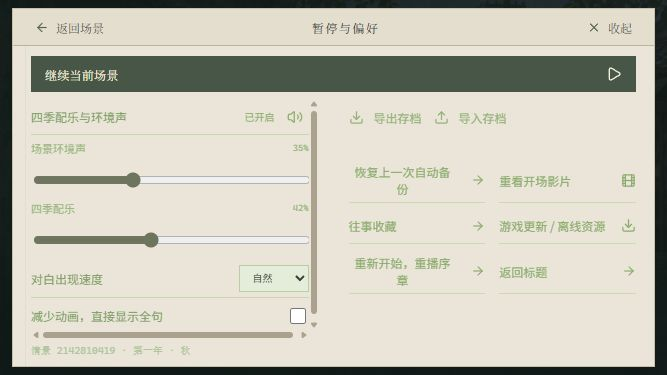
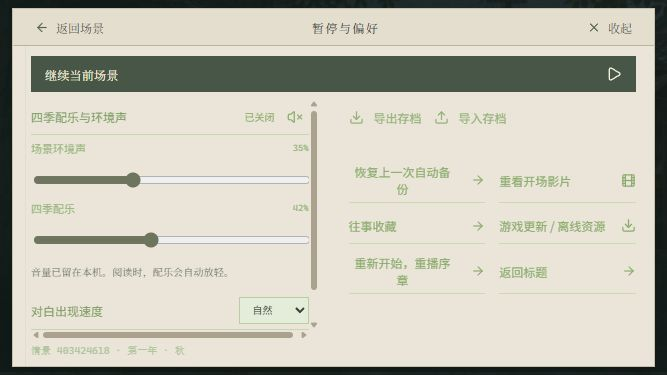
Remember sound levels and smooth reading and pause transitions

diff --git a/components/game/CinematicGame.tsx b/components/game/CinematicGame.tsx
@@ -10,6 +10,7 @@ import {evidenceFor} from '@/lib/game/research';
 import { researchCompany, choose, CHAPTER_QUARTERS, pendingChapter, storyKind, createGame, debtTotal, endQuarter, ending, money, quarterName, SAVE_KEY, selectSide, validateSave, type Game, type StoryKind, type StoryEvent } from '@/lib/game/engine';
 import { CHAPTER_EVENTS, mainEvent, materialize, QUOTES, SIDE_EVENTS } from '@/lib/game/stories';
 import { RoomAudio } from '@/lib/game/audio';
+import {audioPreferenceKey,defaultAudioPreferences,loadAudioPreferences,storeAudioPreferences,readingAudioPanel} from '@/lib/game/audio-settings';
 import { freshPresentation, restartPresentation, PRESENTATION_KEY, validPresentation, type Presentation, type ReadingProgress } from '@/lib/game/presentation';
 import { initialLesson, reconcileLesson, lessonDestination, LESSON_COPY, TRADE_LESSONS, type Lesson } from '@/lib/game/tutorial';
 import { encounterPeople, recoverPeople } from '@/lib/game/people';
@@ -51,15 +52,19 @@ export default function CinematicGame({testMode=false}:{testMode?:boolean}){
  const [shelfTab,setShelfTab]=useState<ShelfTab>('overview'),[resourcesAllowed,setResourcesAllowed]=useState(false);
  const [portrait,setPortrait]=useState(false),[filmAudioFocus,setFilmAudioFocus]=useState(false);
  useEffect(()=>{const media=window.matchMedia('(max-width: 900px) and (orientation: portrait)');const sync=()=>setPortrait(media.matches);sync();media.addEventListener('change',sync);return()=>media.removeEventListener('change',sync);},[]);
- useEffect(()=>{if(portrait){void audio.current?.pause();setSound(false);}},[portrait]);
+ useEffect(()=>{if(portrait)stopSound();},[portrait]);
  const saveKey=testMode?'aequilibrium.playtest.save.v2':SAVE_KEY;
  const presentationKey=testMode?'aequilibrium.playtest.presentation.v2':PRESENTATION_KEY;
  const collectionKey=testMode?'aequilibrium.playtest.collection.v1':COLLECTION_KEY;
  const [collection,setCollection]=useState<Collection>(freshCollection),[galleryReturn,setGalleryReturn]=useState<Screen>('title');
  const [game,setGame]=useState<Game|null>(null),[ui,setUI]=useState<Presentation|null>(null),[screen,setScreen]=useState<Screen>('title'),[panel,setPanel]=useState<Panel>(null),[session,setSession]=useState<Session|null>(null),[marketMode,setMarketMode]=useState<'buy'|'sell'>('buy'),[bankMessage,setBankMessage]=useState(''),[tradeReturn,setTradeReturn]=useState<'market'|'ledger'>('market'),[asset,setAsset]=useState('harbor'),[sound,setSound]=useState(false),[rain,setRain]=useState(35),[music,setMusic]=useState(42),[toast,setToast]=useState(''),[settled,setSettled]=useState(0),[saveError,setSaveError]=useState(false);
  useEffect(()=>{audio.current?.duck(filmAudioFocus?0:1);},[filmAudioFocus]);
- const audio=useRef<RoomAudio|null>(null),ready=useRef(false),dialog=useRef<HTMLDivElement>(null),input=useRef<HTMLInputElement>(null),timer=useRef<ReturnType<typeof setTimeout>|null>(null);
+ const audio=useRef<RoomAudio|null>(null),soundRequested=useRef(false),soundRequestId=useRef(0),ready=useRef(false),dialog=useRef<HTMLDivElement>(null),input=useRef<HTMLInputElement>(null),timer=useRef<ReturnType<typeof setTimeout>|null>(null);
  const cueSoundscape=useCallback((scene:AudioScene)=>audio.current?.scene(scene),[]);
+ const audioKey=audioPreferenceKey(testMode),[loadedAudioKey,setLoadedAudioKey]=useState<string|null>(null),[audioSaved,setAudioSaved]=useState<boolean|null>(null);
+ useEffect(()=>{let prefs=defaultAudioPreferences();try{prefs=loadAudioPreferences(localStorage,audioKey);}catch{}setRain(prefs.environment);setMusic(prefs.music);setAudioSaved(null);setLoadedAudioKey(audioKey);},[audioKey]);
+ useEffect(()=>{if(loadedAudioKey!==audioKey)return;let saved=false;try{saved=storeAudioPreferences(localStorage,audioKey,{version:1,environment:rain,music});}catch{}setAudioSaved(saved);},[audioKey,loadedAudioKey,rain,music]);
+ useEffect(()=>{audio.current?.reading(readingAudioPanel(panel));},[panel]);
  useEffect(()=>{if(!game||!ui)return;const url=new URL(window.location.href);if(url.searchParams.get('updated')&&url.searchParams.get('updated')===currentBuildId()){notify('新版已启用，原来的进度和往事都已保留。');url.searchParams.delete('updated');history.replaceState(null,'',url.pathname+url.search+url.hash);}},[!!game,!!ui]);
  function openGameUpdate(apply:boolean){if(!game||!ui)return;try{localStorage.setItem(saveKey,JSON.stringify(game));localStorage.setItem(presentationKey,JSON.stringify(ui));localStorage.setItem(collectionKey,JSON.stringify(collection));backupUpdateSaves();window.location.assign(updatePageURL(testMode,apply));}catch{notify('更新前的备份未能保存，请先导出存档，再重试。');}}
  function notify(text:string){setToast(text);if(timer.current)clearTimeout(timer.current);timer.current=setTimeout(()=>setToast(''),5000);}
@@ -71,17 +76,23 @@ export default function CinematicGame({testMode=false}:{testMode?:boolean}){
   try{const text=localStorage.getItem(presentationKey);if(text){const p=JSON.parse(text);if(validPresentation(p,game))presentation=p;}}catch{}
   let collection=freshCollection();try{const raw=localStorage.getItem(collectionKey);if(raw)collection=readCollection(JSON.parse(raw));}catch{}
   setCollection(recoverCollection(collection,game,presentation.reading));setGame(game);setUI({...presentation,lesson:reconcileLesson(game,presentation.lesson,presentation.tutorial,presentation.reading),people:recoverPeople(game,presentation.people)});ready.current=true;audio.current=new RoomAudio();
-  return()=>{void audio.current?.close();if(timer.current)clearTimeout(timer.current);};
+  return()=>{soundRequested.current=false;++soundRequestId.current;void audio.current?.close();if(timer.current)clearTimeout(timer.current);};
  },[]);
  useEffect(()=>{if(!game||!ui||!ready.current)return;setCollection(previous=>recoverCollection(previous,game,ui.reading));},[game,ui?.reading?.eventId,ui?.reading?.phase]);
  useEffect(()=>{if(!game||!ui||!ready.current)return;try{localStorage.setItem(saveKey,JSON.stringify(game));localStorage.setItem(presentationKey,JSON.stringify(ui));localStorage.setItem(collectionKey,JSON.stringify(collection));setSaveError(false);}catch{setSaveError(true);}},[game,ui,collection]);
- useEffect(()=>{const visibility=()=>{if(document.hidden){void audio.current?.pause();setSound(false);}};document.addEventListener('visibilitychange',visibility);return()=>document.removeEventListener('visibilitychange',visibility);},[]);
+ useEffect(()=>{const visibility=()=>{if(document.hidden)stopSound();};document.addEventListener('visibilitychange',visibility);return()=>document.removeEventListener('visibilitychange',visibility);},[]);
  useEffect(()=>{
   if(!panel)return;const previous=document.activeElement as HTMLElement;const overflow=document.body.style.overflow;document.body.style.overflow='hidden';const t=setTimeout(()=>dialog.current?.querySelector<HTMLButtonElement>('button')?.focus(),10);
   const keyboard=(e:KeyboardEvent)=>{if(e.key==='Escape'){e.stopPropagation();closePanel();}if(e.key==='Tab'){const all=dialog.current?.querySelectorAll<HTMLElement>('button:not(:disabled),input:not(:disabled),select,a[href]');if(!all?.length)return;const first=all[0],last=all[all.length-1];if(e.shiftKey&&document.activeElement===first){e.preventDefault();last.focus();}else if(!e.shiftKey&&document.activeElement===last){e.preventDefault();first.focus();}}};
   document.addEventListener('keydown',keyboard);return()=>{clearTimeout(t);document.removeEventListener('keydown',keyboard);document.body.style.overflow=overflow;previous?.focus();};
  },[panel]);
- async function toggleSound(){try{if(sound){await audio.current?.pause();setSound(false);}else{await audio.current?.start();audio.current?.levels(rain/100,music/100);setSound(true);}}catch{notify('可以继续安静游玩。声音暂时未能开启。');}}
+ function stopSound(){soundRequested.current=false;++soundRequestId.current;setSound(false);void audio.current?.pause();}
+ async function toggleSound(){
+  const enable=!soundRequested.current,id=++soundRequestId.current;soundRequested.current=enable;
+  if(!enable)setSound(false);
+  try{if(enable){audio.current?.levels(rain/100,music/100);await audio.current?.start();if(id===soundRequestId.current&&soundRequested.current)setSound(true);}else await audio.current?.pause();}
+  catch{if(id===soundRequestId.current){soundRequested.current=false;setSound(false);notify('可以继续安静游玩。声音暂时未能开启。');}}
+ }
  useEffect(()=>{if(!game?.mainSnapshot||screen==='gallery')return;const timer=setTimeout(()=>{warmScene(hubScene(game));const script=getScript(game.mainSnapshot!);warmScene(script.scene,script.cast);},700);return()=>clearTimeout(timer);},[game?.seed,game?.quarter,screen]);
  function updateUI(change:Partial<Presentation>){setUI(s=>s?{...s,...change}:s);}
  function commit(fn:(s:Game)=>Game){if(!game)return false;try{setGame(prepare(fn(game)));audio.current?.page();return true;}catch(e){notify((e as Error).message);return false;}}
@@ -162,7 +173,7 @@ export default function CinematicGame({testMode=false}:{testMode?:boolean}){
    {panel==='library'&&<Suspense fallback={<p>正在打开书柜…</p>}><Bookshelf game={game} presentation={ui} collection={collection} tab={shelfTab} onTab={setShelfTab} onPage={readingPage=>updateUI({readingPage})} sound={sound} onSound={toggleSound} onAudioFocus={setFilmAudioFocus}/></Suspense>}
    {panel==='offline'&&<Suspense fallback={<p>正在查看本机资源…</p>}><OfflinePack onContinue={continueWithResources} onUpdate={openGameUpdate} update={availableUpdate}/></Suspense>}
 
-   {panel==='pause'&&<div className="pause-sheet"><p className="paper-kicker">给自己留一会儿</p><h2>暂停在这里</h2><button className="ink-button full" onClick={closePanel}>继续当前场景<Play size={16}/></button><div className="pause-columns"><section className="pause-preferences"><div className="preference-row"><span>四季配乐与环境声</span><button onClick={toggleSound} aria-pressed={sound}>{sound?'已开启':'已关闭'}{sound?<Volume2 size={16}/>:<VolumeX size={16}/>}</button></div><label className="range-pref"><span>场景环境声<b>{rain}%</b></span><input type="range" min="0" max="100" value={rain} onChange={e=>{const n=Number(e.target.value);setRain(n);audio.current?.levels(n/100,music/100);}}/></label><label className="range-pref"><span>四季配乐<b>{music}%</b></span><input type="range" min="0" max="100" value={music} onChange={e=>{const n=Number(e.target.value);setMusic(n);audio.current?.levels(rain/100,n/100);}}/></label><label className="preference-row"><span>对白出现速度</span><select aria-label="对白出现速度" value={ui.speed} onChange={e=>updateUI({speed:Number(e.target.value)})}><option value={50}>慢一点</option><option value={30}>自然</option><option value={15}>快一点</option></select></label><label className="preference-row"><span>减少动画，直接显示全句</span><input type="checkbox" checked={ui.reducedMotion} onChange={e=>updateUI({reducedMotion:e.target.checked})}/></label></section><section className="pause-utilities"><div className="pause-divider"/><div className="pause-save-actions"><button onClick={exportSave}><Download size={15}/>导出存档</button><button onClick={()=>input.current?.click()}><Upload size={15}/>导入存档</button></div><button className="pause-link" onClick={restoreBackup}>恢复上一次自动备份<ArrowRight size={14}/></button><button className="pause-link" onClick={()=>{setPanel(null);setScreen('film');}}>重看开场影片<Film size={15}/></button><button className="pause-link" onClick={()=>openShelf('memories')}>往事收藏<span>已收录 {collectionStats(collection).stories} 段故事 · {collectionStats(collection).branches} 段回声</span><ArrowRight size={14}/></button><button className="pause-link" onClick={()=>availableUpdate?openGameUpdate(true):setPanel('offline')}>{availableUpdate?'有新版 · 保存进度后更新':'游戏更新 / 离线资源'}<Download size={15}/></button><button className="pause-link" onClick={()=>setPanel('reset')}>重新开始，重播序章<ArrowRight size={14}/></button><button className="pause-link" onClick={returnToTitle}>返回标题<ArrowRight size={14}/></button></section></div><p className="save-scenario mono">情景 {game.seed} · {quarterName(game.quarter)}</p></div>}
+   {panel==='pause'&&<div className="pause-sheet"><p className="paper-kicker">给自己留一会儿</p><h2>暂停在这里</h2><button className="ink-button full" onClick={closePanel}>继续当前场景<Play size={16}/></button><div className="pause-columns"><section className="pause-preferences"><div className="preference-row"><span>四季配乐与环境声</span><button onClick={toggleSound} aria-pressed={sound}>{sound?'已开启':'已关闭'}{sound?<Volume2 size={16}/>:<VolumeX size={16}/>}</button></div><label className="range-pref"><span>场景环境声<b>{rain}%</b></span><input type="range" min="0" max="100" value={rain} onChange={e=>{const n=Number(e.target.value);setRain(n);audio.current?.levels(n/100,music/100);}}/></label><label className="range-pref"><span>四季配乐<b>{music}%</b></span><input type="range" min="0" max="100" value={music} onChange={e=>{const n=Number(e.target.value);setMusic(n);audio.current?.levels(rain/100,n/100);}}/></label>{audioSaved!==null&&<p className="audio-preference-note">{audioSaved?'音量已留在本机。阅读时，配乐会自动放轻。':'音量本次有效，浏览器暂未保存设置。'}</p>}<label className="preference-row"><span>对白出现速度</span><select aria-label="对白出现速度" value={ui.speed} onChange={e=>updateUI({speed:Number(e.target.value)})}><option value={50}>慢一点</option><option value={30}>自然</option><option value={15}>快一点</option></select></label><label className="preference-row"><span>减少动画，直接显示全句</span><input type="checkbox" checked={ui.reducedMotion} onChange={e=>updateUI({reducedMotion:e.target.checked})}/></label></section><section className="pause-utilities"><div className="pause-divider"/><div className="pause-save-actions"><button onClick={exportSave}><Download size={15}/>导出存档</button><button onClick={()=>input.current?.click()}><Upload size={15}/>导入存档</button></div><button className="pause-link" onClick={restoreBackup}>恢复上一次自动备份<ArrowRight size={14}/></button><button className="pause-link" onClick={()=>{setPanel(null);setScreen('film');}}>重看开场影片<Film size={15}/></button><button className="pause-link" onClick={()=>openShelf('memories')}>往事收藏<span>已收录 {collectionStats(collection).stories} 段故事 · {collectionStats(collection).branches} 段回声</span><ArrowRight size={14}/></button><button className="pause-link" onClick={()=>availableUpdate?openGameUpdate(true):setPanel('offline')}>{availableUpdate?'有新版 · 保存进度后更新':'游戏更新 / 离线资源'}<Download size={15}/></button><button className="pause-link" onClick={()=>setPanel('reset')}>重新开始，重播序章<ArrowRight size={14}/></button><button className="pause-link" onClick={returnToTitle}>返回标题<ArrowRight size={14}/></button></section></div><p className="save-scenario mono">情景 {game.seed} · {quarterName(game.quarter)}</p></div>}
    {panel==='borrow'&&<><p className="paper-kicker">按日期偿还的合同</p><h2 className="paper-title">四季定额借款</h2><div className="loan-terms"><div><span>到账本金</span><strong className="mono">¥20,000</strong></div><div><span>每季利率</span><strong className="mono">2%</strong></div><div><span>计息次数</span><strong>四次，共 ¥1,600</strong></div><div><span>还本日期</span><strong>第 {game.quarter+3} 季末</strong></div></div><p className="paper-intro">本季开始计息。提前还本可减少后续利息。到期现金不足时，会按折价与手续费变现持仓，未还部分继续列为欠款。</p><button className="ink-button full" disabled={game.finished||game.quarter>8||game.debt.length>=2} onClick={()=>{if(commit(s=>borrowAt(screen as Place,s))){setPanel(null);setBankMessage('姚宁递回合同：“款已到账，还本日期也写好了。需要时，可以再来柜台核对。”');}}}>签下这笔借款<ArrowRight size={17}/></button><button className="paper-back-link" onClick={()=>setPanel(null)}><ArrowLeft size={14}/>回到银行柜台</button></>}
    {panel==='end'&&<><p className="paper-kicker">{quarterName(game.quarter)}</p><h2 className="paper-title">让这一季过去</h2><p className="paper-intro">市场、工资、日常收支与书店经营会在接下来结算。已经答应的事，也会按日期到来。</p>{side&&game.sideChoice===null&&<div className="unread-end"><Mail size={17}/><span>「{side.title}」还未作答。可以先回去看看，也可以结束这一季。</span></div>}{game.promises.filter(p=>p.status==='pending'&&p.kind==='payment'&&p.due===game.quarter).map(p=><div className="end-due" key={p.id}><span>{p.label}</span><b className="mono">¥{money(p.amount)}</b></div>)}<button className="ink-button full" onClick={()=>chapterDue&&chapter?openStory(chapter,'chapter'):advance()}>{chapterDue?'先读完本季主线续章':`结束第 ${game.quarter} 季`}<ArrowRight size={17}/></button></>}
    {panel==='settlement'&&<><p className="paper-kicker">{quarterName(settled)} · 已归档</p><h2 className="paper-title">日历又薄了三张。</h2><p className="settlement-scene-line">{game.quarters.at(-1)?.text}</p><div className="quarter-ledger"><div><span>手头现金</span><b className="mono">¥{money(game.cash)}</b></div><div><span>这一季的答复</span><span>已经留下回声</span></div></div>{game.notices.slice(1).map((n,i)=><p className="quarter-notice" key={i}>{n}</p>)}{settled===1&&(()=>{const r=firstPurchaseReview(game,settled);return r&&<section className="first-investment-review"><p className="paper-kicker">第一笔买入 · 季末对照</p><h3>{r.name} 后来怎样了？</h3><dl><div><dt>当时买入总支出</dt><dd>¥{money(r.cost)}</dd></div><div><dt>按原份额计算的本季市值</dt><dd>¥{money(r.market)}</dd></div><div><dt>假设此刻卖出，扣费后收回</dt><dd>¥{money(r.netSale)}</dd></div></dl><p>市值变化仍是账面结果；卖出净到账与买入总支出之差，才是这笔买卖的已实现收益。分红另记在账本。若期间已卖出，以实际成交记录为准。</p><p>下季先核对经营是否仍支持你的判断，再决定继续持有、减持或保留现金；涨跌本身不能代替理由。</p><button className="paper-back-link" onClick={()=>{enterPlace('broker');openCompany(game.transactions.find(t=>t.side==='buy')!.asset);}}>去营业室复查 / 学习卖出<ArrowRight size={14}/></button></section>;})()}<ShopQuarterNote game={game} quarter={settled} onOpen={()=>openShop('settlement')}/><QuarterInvestmentReview game={game} quarter={settled}/><blockquote className="settlement-quote"><p>“{QUOTES[(settled-1)%2].text}”</p><cite>—— {QUOTES[(settled-1)%2].author} <a href={QUOTES[(settled-1)%2].url} target="_blank" rel="noreferrer">原文 ↗</a></cite></blockquote><button className="ink-button full" onClick={()=>{setPanel(null);if(game.finished)setScreen('ending');}}>{game.finished?'回望这三年':'走进下一季'}<ArrowRight size={17}/></button></>}

diff --git a/lib/game/audio.ts b/lib/game/audio.ts
@@ -1,5 +1,10 @@
 import {ambienceFor,noteHz,seasonIndex,SEASON_SCORES,type AudioScene} from './soundtrack';
 
+function holdGain(param:AudioParam,at:number){
+ if(typeof param.cancelAndHoldAtTime==='function')param.cancelAndHoldAtTime(at);
+ else{const value=param.value;param.cancelScheduledValues(at);param.setValueAtTime(value,at);}
+}
+
 // Local synthesis: no audio downloads, external API or game RNG.
 export class RoomAudio {
  private context:AudioContext|null=null;
@@ -10,7 +15,7 @@ export class RoomAudio {
  private air:GainNode|null=null;
  private buses:GainNode[]=[];
  private persistent:AudioScheduledSourceNode[]=[];
- private voices=new Set<AudioScheduledSourceNode>();
+ private voices=new Map<AudioScheduledSourceNode,()=>void>();
  private timer:ReturnType<typeof setInterval>|null=null;
  private cue:AudioScene={season:0,rain:true,outdoors:false,night:true};
  private duckLevel=1;
@@ -21,8 +26,14 @@ export class RoomAudio {
  private step=0;
  private nextNature=0;
  private epoch=0;
+ private wantsPlayback=false;
+ private closed=false;
+ private readingMode=false;
+ private noteWait=.12;
+ private natureWait=4;
 
  async start(){
+  if(this.closed)return;this.wantsPlayback=true;
   const epoch=++this.epoch;
   if(!this.context){
    const ctx=new AudioContext();this.context=ctx;
@@ -50,8 +61,9 @@ export class RoomAudio {
    noise.connect(rainFilter);rainFilter.connect(this.rain);noise.connect(airCut);airCut.connect(airFilter);airFilter.connect(this.air);
    noise.start();this.persistent.push(noise);
   }
-  const ctx=this.context;await ctx.resume();if(epoch!==this.epoch||ctx!==this.context)return;
-  if(this.on)return;this.on=true;this.nextNote=ctx.currentTime+.12;this.nextNature=ctx.currentTime+4;this.step=0;
+  const ctx=this.context;await ctx.resume();if(epoch!==this.epoch||ctx!==this.context){if(!this.wantsPlayback&&ctx===this.context)await ctx.suspend();return;}
+  if(this.on)return;this.on=true;this.nextNote=ctx.currentTime+this.noteWait;this.nextNature=ctx.currentTime+this.natureWait;
+  holdGain(this.master!.gain,ctx.currentTime);
   this.master!.gain.setTargetAtTime(.6*this.duckLevel,ctx.currentTime,1.2);
   this.levels(this.environmentLevel,this.musicLevel);this.applyScene();this.schedule();
   this.timer=setInterval(()=>this.schedule(),200);
@@ -60,12 +72,13 @@ export class RoomAudio {
   const clamp=(n:number)=>Number.isFinite(n)?Math.max(0,Math.min(1,n)):0;
   this.environmentLevel=clamp(environment);this.musicLevel=clamp(music);
   if(!this.context||!this.on)return;
-  this.environment?.gain.setTargetAtTime(this.environmentLevel,this.context.currentTime,1.2);
-  this.music?.gain.setTargetAtTime(this.musicLevel,this.context.currentTime,1.2);
+  this.environment?.gain.setTargetAtTime(this.environmentLevel*(this.readingMode ? .78 : 1),this.context.currentTime,1.2);
+  this.music?.gain.setTargetAtTime(this.musicLevel*(this.readingMode ? .62 : 1),this.context.currentTime,1.2);
  }
+ reading(active:boolean){if(this.readingMode===active)return;this.readingMode=active;this.levels(this.environmentLevel,this.musicLevel);}
  scene(cue:AudioScene){
   const next={...cue,season:seasonIndex(cue.season)},changed=next.season!==this.cue.season;
-  this.cue=next;if(changed&&this.context&&this.on){this.step=0;this.nextNote=this.context.currentTime+.2;}
+  this.cue=next;if(changed){this.step=0;this.noteWait=.2;this.natureWait=4;if(this.context&&this.on){this.nextNote=this.context.currentTime+.2;this.nextNature=this.context.currentTime+4;}}
   this.applyScene();
  }
  season(index:number){this.scene({...this.cue,season:index});}
@@ -76,7 +89,7 @@ export class RoomAudio {
  }
  duck(level:number){this.duckLevel=Number.isFinite(level)?Math.max(0,Math.min(1,level)):0;if(this.context&&this.on)this.master?.gain.setTargetAtTime(.6*this.duckLevel,this.context.currentTime,.45);}
  private track(source:AudioScheduledSourceNode,env:GainNode){
-  this.voices.add(source);source.onended=()=>{this.voices.delete(source);source.disconnect();env.disconnect();};
+  const cleanup=()=>{source.onended=null;this.voices.delete(source);source.disconnect();env.disconnect();};this.voices.set(source,cleanup);source.onended=cleanup;
  }
  private piano(midi:number,at:number,bus:GainNode,level=.1){
   const ctx=this.context!;
@@ -118,11 +131,18 @@ export class RoomAudio {
   osc.connect(env);env.connect(this.master!);this.track(osc,env);osc.start();osc.stop(ctx.currentTime+.07);
  }
  async pause(){
-  ++this.epoch;if(this.timer){clearInterval(this.timer);this.timer=null;}this.on=false;
-  for(const source of this.voices){try{source.stop();}catch{}source.disconnect();}this.voices.clear();
-  if(this.master)this.master.gain.value=0;await this.context?.suspend();
+  const epoch=++this.epoch;this.wantsPlayback=false;if(this.timer){clearInterval(this.timer);this.timer=null;}
+  const ctx=this.context,wasOn=this.on;this.on=false;if(!ctx)return;
+  const now=ctx.currentTime;if(wasOn){this.noteWait=Math.max(.12,Math.min(this.nextNote-now,SEASON_SCORES[this.cue.season].pace));this.natureWait=Math.max(1,Math.min(this.nextNature-now,25));}
+  const stopping=[...this.voices.keys()];
+  if(this.master){holdGain(this.master.gain,now);if(wasOn)this.master.gain.linearRampToValueAtTime(0,now+.08);else this.master.gain.setValueAtTime(0,now);}
+  for(const source of stopping){try{source.stop(wasOn?now+.08:now);}catch{}}
+  if(wasOn)await new Promise<void>(resolve=>setTimeout(resolve,100));
+  for(const source of stopping)this.voices.get(source)?.();
+  if(epoch===this.epoch&&ctx===this.context&&!this.wantsPlayback){if(this.master){holdGain(this.master.gain,ctx.currentTime);this.master.gain.setValueAtTime(0,ctx.currentTime);}await ctx.suspend();}
  }
  async close(){
+  this.closed=true;
   await this.pause();for(const source of this.persistent){try{source.stop();}catch{}source.disconnect();}this.persistent=[];
   await this.context?.close();this.context=null;this.master=null;this.music=null;this.environment=null;this.air=null;this.rain=null;this.buses=[];
  }

diff --git a/lib/game/audio-settings.ts b/lib/game/audio-settings.ts
@@ -1,0 +1,18 @@
+export type AudioPreferences={version:1;environment:number;music:number};
+export type AudioPreferenceKey='aequilibrium.playtest.audio.v1'|'aequilibrium.audio.v1';
+export const audioPreferenceKey=(testMode=false):AudioPreferenceKey=>testMode?'aequilibrium.playtest.audio.v1':'aequilibrium.audio.v1';
+const validKey=(key:string)=>key===audioPreferenceKey()||key===audioPreferenceKey(true);
+export const defaultAudioPreferences=():AudioPreferences=>({version:1,environment:35,music:42});
+export function normalizeAudioPreferences(value:unknown):AudioPreferences{
+ const defaults=defaultAudioPreferences();if(!value||typeof value!=='object'||Array.isArray(value)||!('version'in value)||value.version!==1)return defaults;
+ const p=value as Partial<AudioPreferences>,valid=(n:unknown):n is number=>typeof n==='number'&&Number.isInteger(n)&&n>=0&&n<=100;
+ return{version:1,environment:valid(p.environment)?p.environment:defaults.environment,music:valid(p.music)?p.music:defaults.music};
+}
+export function loadAudioPreferences(storage:Pick<Storage,'getItem'>|null,key:AudioPreferenceKey){
+ if(!validKey(key))return defaultAudioPreferences();
+ try{return normalizeAudioPreferences(JSON.parse(storage?.getItem(key)??'null'));}catch{return defaultAudioPreferences();}
+}
+export function storeAudioPreferences(storage:Pick<Storage,'setItem'>|null,key:AudioPreferenceKey,p:AudioPreferences){
+ if(!storage||!validKey(key))return false;try{storage.setItem(key,JSON.stringify(normalizeAudioPreferences(p)));return true;}catch{return false;}
+}
+export const readingAudioPanel=(panel:string|null)=>panel!==null&&['library','people','news','market','ledger','letters','trade','borrow','repay','research','shop','report','receipt','settlement','guide'].includes(panel);

diff --git a/app/folio.css b/app/folio.css
@@ -204,3 +204,6 @@
 }
 @media(max-width:650px) and (orientation:portrait){.resource-folio{grid-template-columns:1fr}.resource-intro{border-right:0;border-bottom:1px solid var(--folio-rule)}.bookshelf-index .shelf-catalog{grid-template-columns:1fr}}
 @media(prefers-reduced-motion:reduce){.stage-painting{transition:none!important}.shelf-catalog>button:hover{transform:none}}
+
+/* Local sound preferences stay on the same paper as the other controls. */
+.audio-preference-note{font:10px/1.7 var(--serif);color:var(--folio-muted,#686b5f);margin:8px 0 12px;letter-spacing:.015em}

diff --git a/docs/SOUND_DESIGN.md b/docs/SOUND_DESIGN.md
@@ -30,3 +30,15 @@
 浏览器渲染真实音频图，与首版使用同样每季 24 秒的晴天室内设置。Hann 窗 FFT 的 180 Hz 以下能量占比从首版各季约 19%—42%，降至约 0.013%—0.017%；这是占比，独立于整体增益。试听沿用 -25 dBFS RMS 归一，不通过单纯调低试听音量制造改善。RMS 等同不代表主观响度完全相同，频段和波形检查也不能保证每位玩家都听得舒适。
 
 326 项完整测试、类型检查、Pages 与 Worker 构建通过；新增回归覆盖四季全乐句没有低音或长时间持续振荡器。实际游戏验证开启、关闭、零配乐音量、进入对白与返回书屋；桌面及 667×375 横屏操作成功，游戏与渲染页控制台无警告错误。此轮未修改缓存协议、存档格式、剧情和市场数值，未重跑上轮下载测速或十二季平衡验收。
+
+## 音量与阅读衔接 · 2026-11-10
+
+环境声与配乐音量分别留在当前浏览器，包含 0% 静音设置；刷新、重新开局仍可沿用。只记住音量，不自动开启声音。偏好与游戏进度分开，正式入口、独立试玩各自保存；不会随游戏存档导入导出到别的设备。旧版没有这份设置时沿用 35% / 42% 默认值。单项设置损坏时只回退该项，浏览器拒绝保存时说明本次可用，不影响游玩。
+
+季报、书柜、公司资料、账本等纸页阅读期间，配乐平缓降至所选音量的 62%、环境声降至 78%；返回场景恢复所选水平，重复打开不会逐次变轻。零音量和影片静音仍优先。暂停菜单保留原选定的数字，旁注解释阅读时会自动放轻。
+
+关闭声音先用约 80 毫秒淡出，再停止短音源与挂起上下文；恢复时接着后续乐句，避免重复第一声。快速重新开启会取消旧的淡出收尾，不会被迟到的暂停或解锁回调再次静音。页面隐藏、手机竖屏及卸载会取消过时的开启请求；播放前先应用记住的音量。上一版的中音短句与去低频方向保持。
+
+332 项完整测试、类型检查和两种生产构建通过。独立浏览器实测 10%/30% 与 0%/0% 刷新保留，主入口默认 35%/42% 未被试玩覆盖；快关快开最终状态正确，季报和书柜可正常返回。两次真实存档导出完全相同、均通过 validateSave。手机横屏两滑块及旁注可见。
+
+另渲染真实 RoomAudio 的 32 秒场景→阅读→场景→暂停→恢复流程；16.15—17.9 秒波形严格静音，恢复段非静音、峰值约 0.037，无非有限值或削波。数据见 AUDIO_PREFS_VERIFICATION.json。此轮没有新增乐谱、人物配音、音频下载或剧情数值改动。

diff --git a/AGENTS.md b/AGENTS.md
@@ -49,3 +49,5 @@
 - 音频波形与生命周期检查不能替代试听审定，不将免费演示失败称为已经生成，不覆盖已冻结人物参考。
 
 配乐后续保持轻声版的中音与短句方向：不恢复低音长铺、缓慢失谐嗡鸣或低脉冲交互音；削低频时也检查起音、余音和高次泛音，避免只把压迫感换成尖锐铃响。试听对比保留整体响度基准与原始波形，主观舒适度由实际试听确认。
+
+声音偏好只保存音量且与剧情存档、正式/试玩命名空间分开；0% 不可用真值判断回退成默认值，不记住自动播放。初始化读完旧偏好后才能写回，避免覆盖；保存失败不阻塞剧情。阅读衰减从原始选定音量计算，不能重复乘低。异步开启/暂停用当前意图与序号防止迟到回调覆盖新操作，淡出后只清理本次停下的音源；不要用旧暂停挂起新播放。
